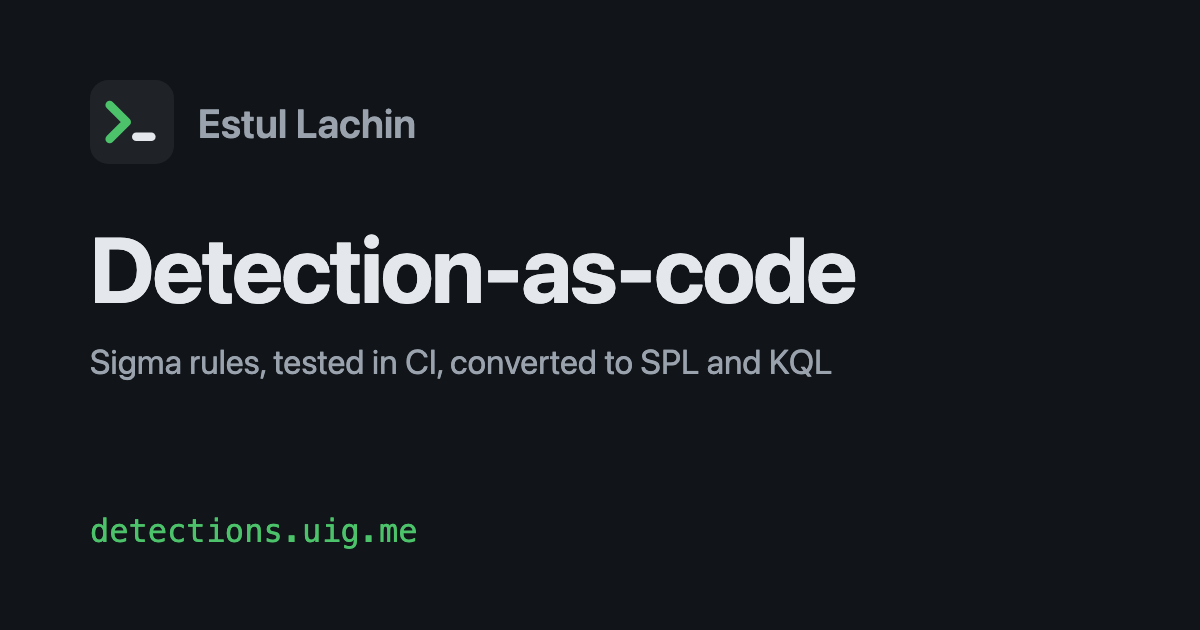
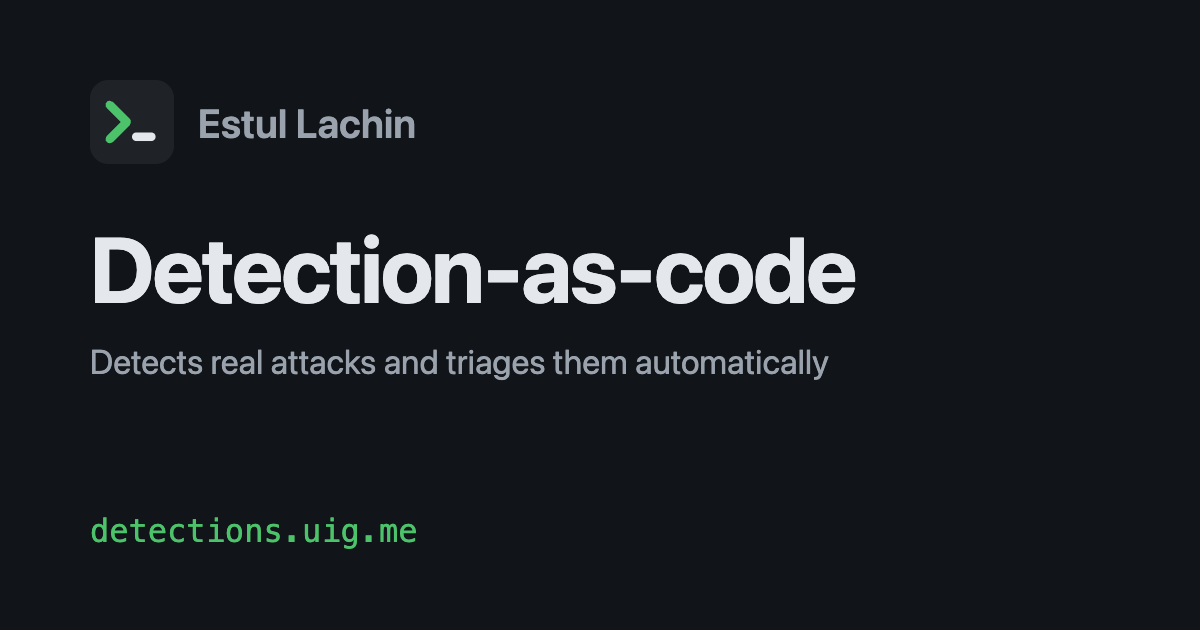
OG image: plain-English subtitle

Changed region(s): [[0.0617, 0.5429, 0.7092, 0.6032]]

diff --git a/assets/og-image.html b/assets/og-image.html
@@ -18,6 +18,6 @@
 </style></head><body>
   <div class="top"><img src="favicon.svg" alt=""><span class="name">Estul Lachin</span></div>
   <h1>Detection-as-code</h1>
-  <div class="by">Sigma rules, tested in CI, converted to SPL and KQL</div>
+  <div class="by">Detects real attacks and triages them automatically</div>
   <div class="url">detections.uig.me</div>
 </body></html>
